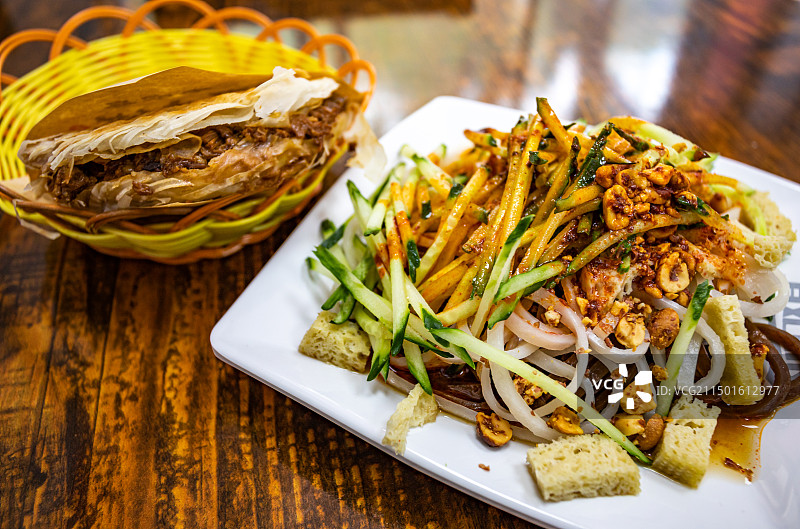
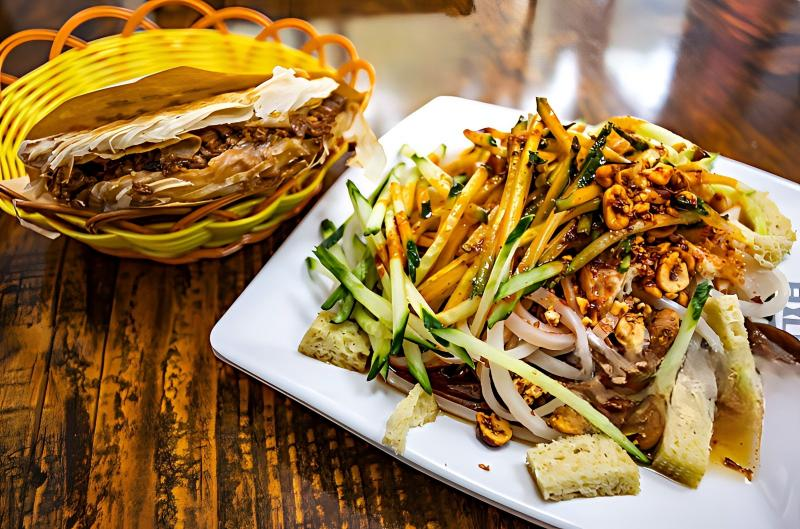
修改延安特色美食部分的图片路径为yanan_food6.jpg

diff --git a/g359-guide.html b/g359-guide.html
@@ -375,7 +375,7 @@
                 <!-- 延安午餐 -->
                 <div class="bg-white rounded-xl shadow-lg overflow-hidden" data-aos="fade-left">
                     <div class="h-48 overflow-hidden">
-                        <img src="images/yanan.jpg" alt="延安美食" class="w-full h-full object-cover">
+                        <img src="images/yanan_food6.jpg" alt="延安美食" class="w-full h-full object-cover">
                     </div>
                     <div class="p-6">
                         <div class="flex items-center mb-4">

diff --git a/index.html b/index.html
@@ -375,7 +375,7 @@
                 <!-- 延安午餐 -->
                 <div class="bg-white rounded-xl shadow-lg overflow-hidden" data-aos="fade-left">
                     <div class="h-48 overflow-hidden">
-                        <img src="images/yanan.jpg" alt="延安美食" class="w-full h-full object-cover">
+                        <img src="images/yanan_food6.jpg" alt="延安美食" class="w-full h-full object-cover">
                     </div>
                     <div class="p-6">
                         <div class="flex items-center mb-4">
